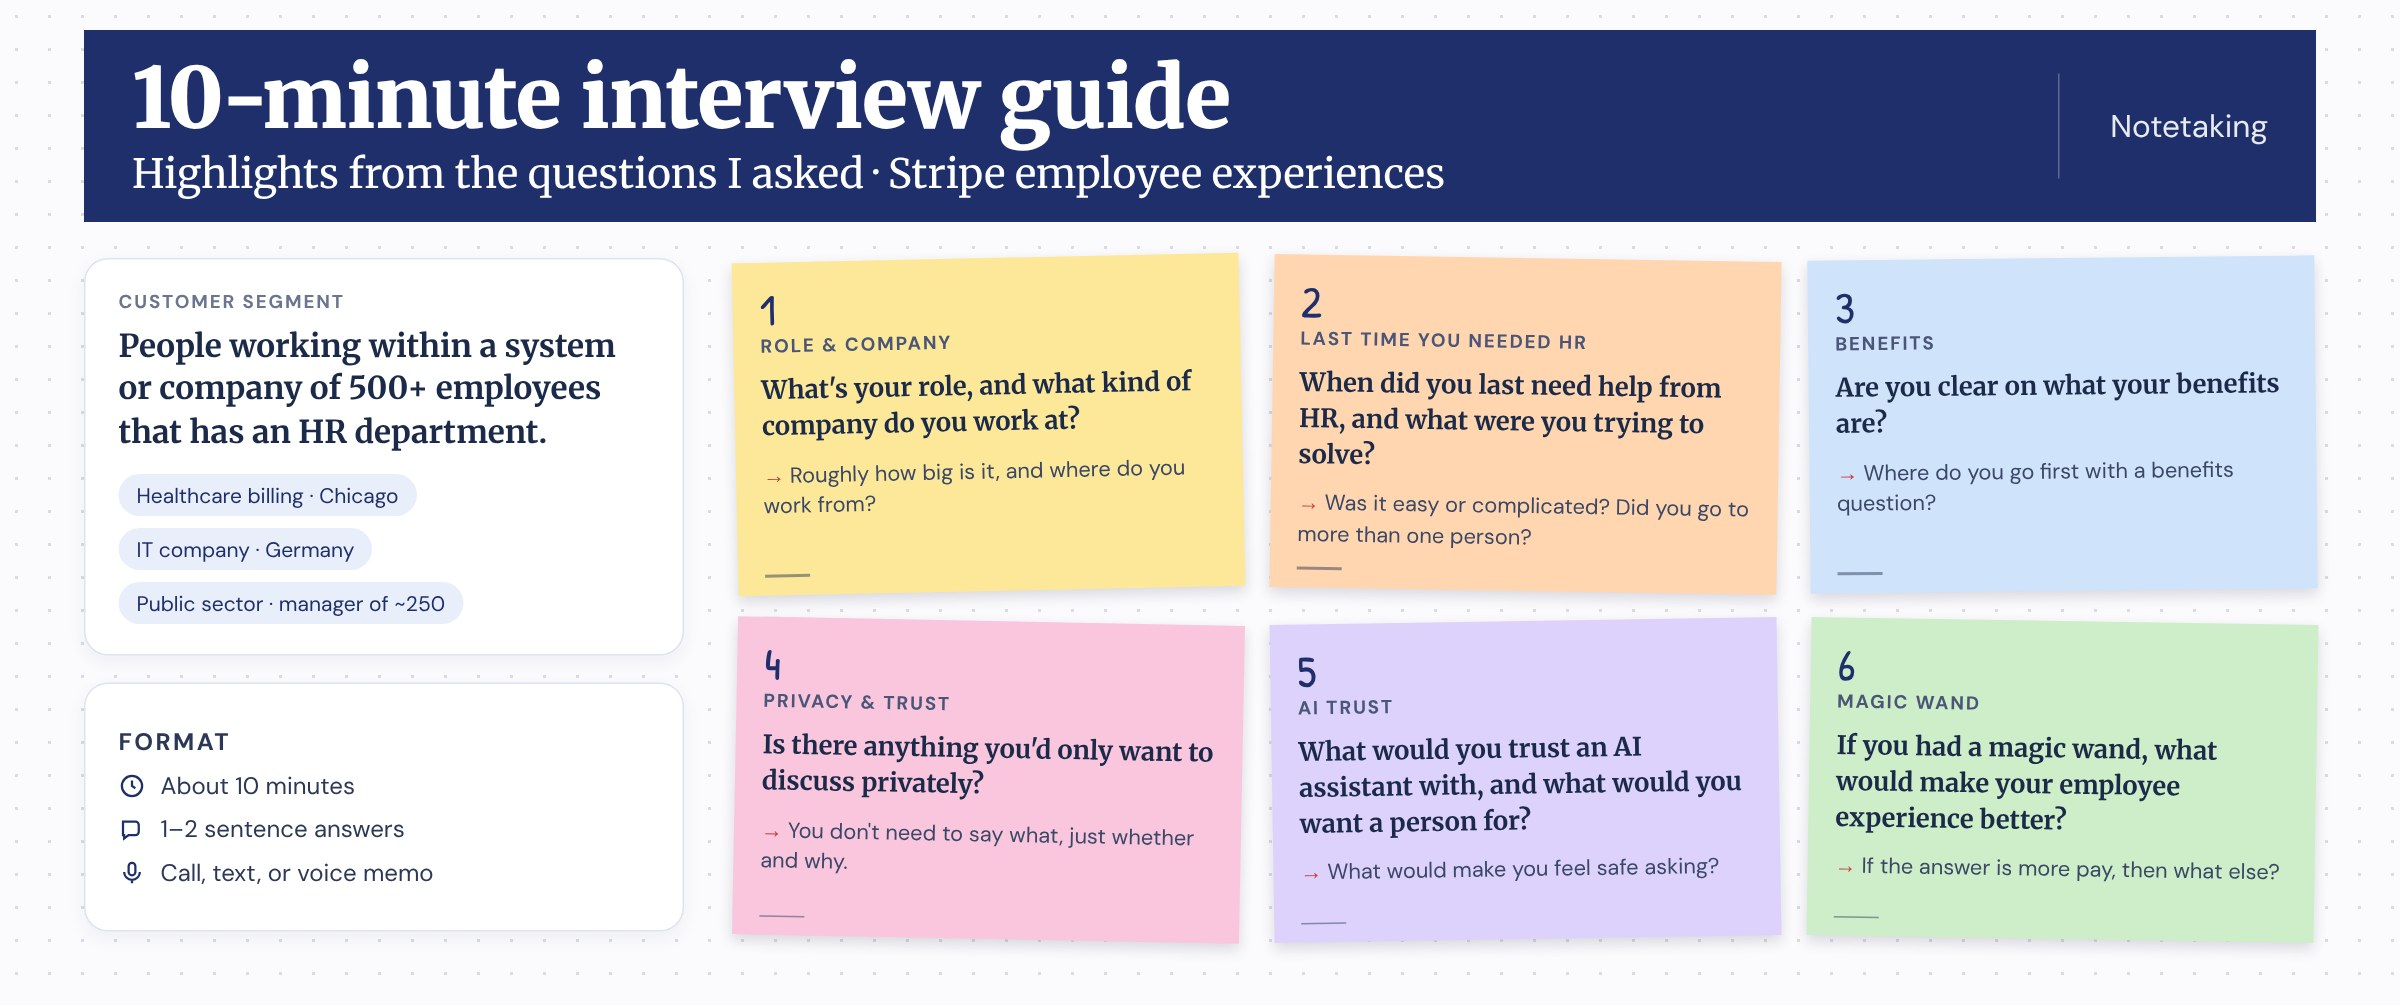
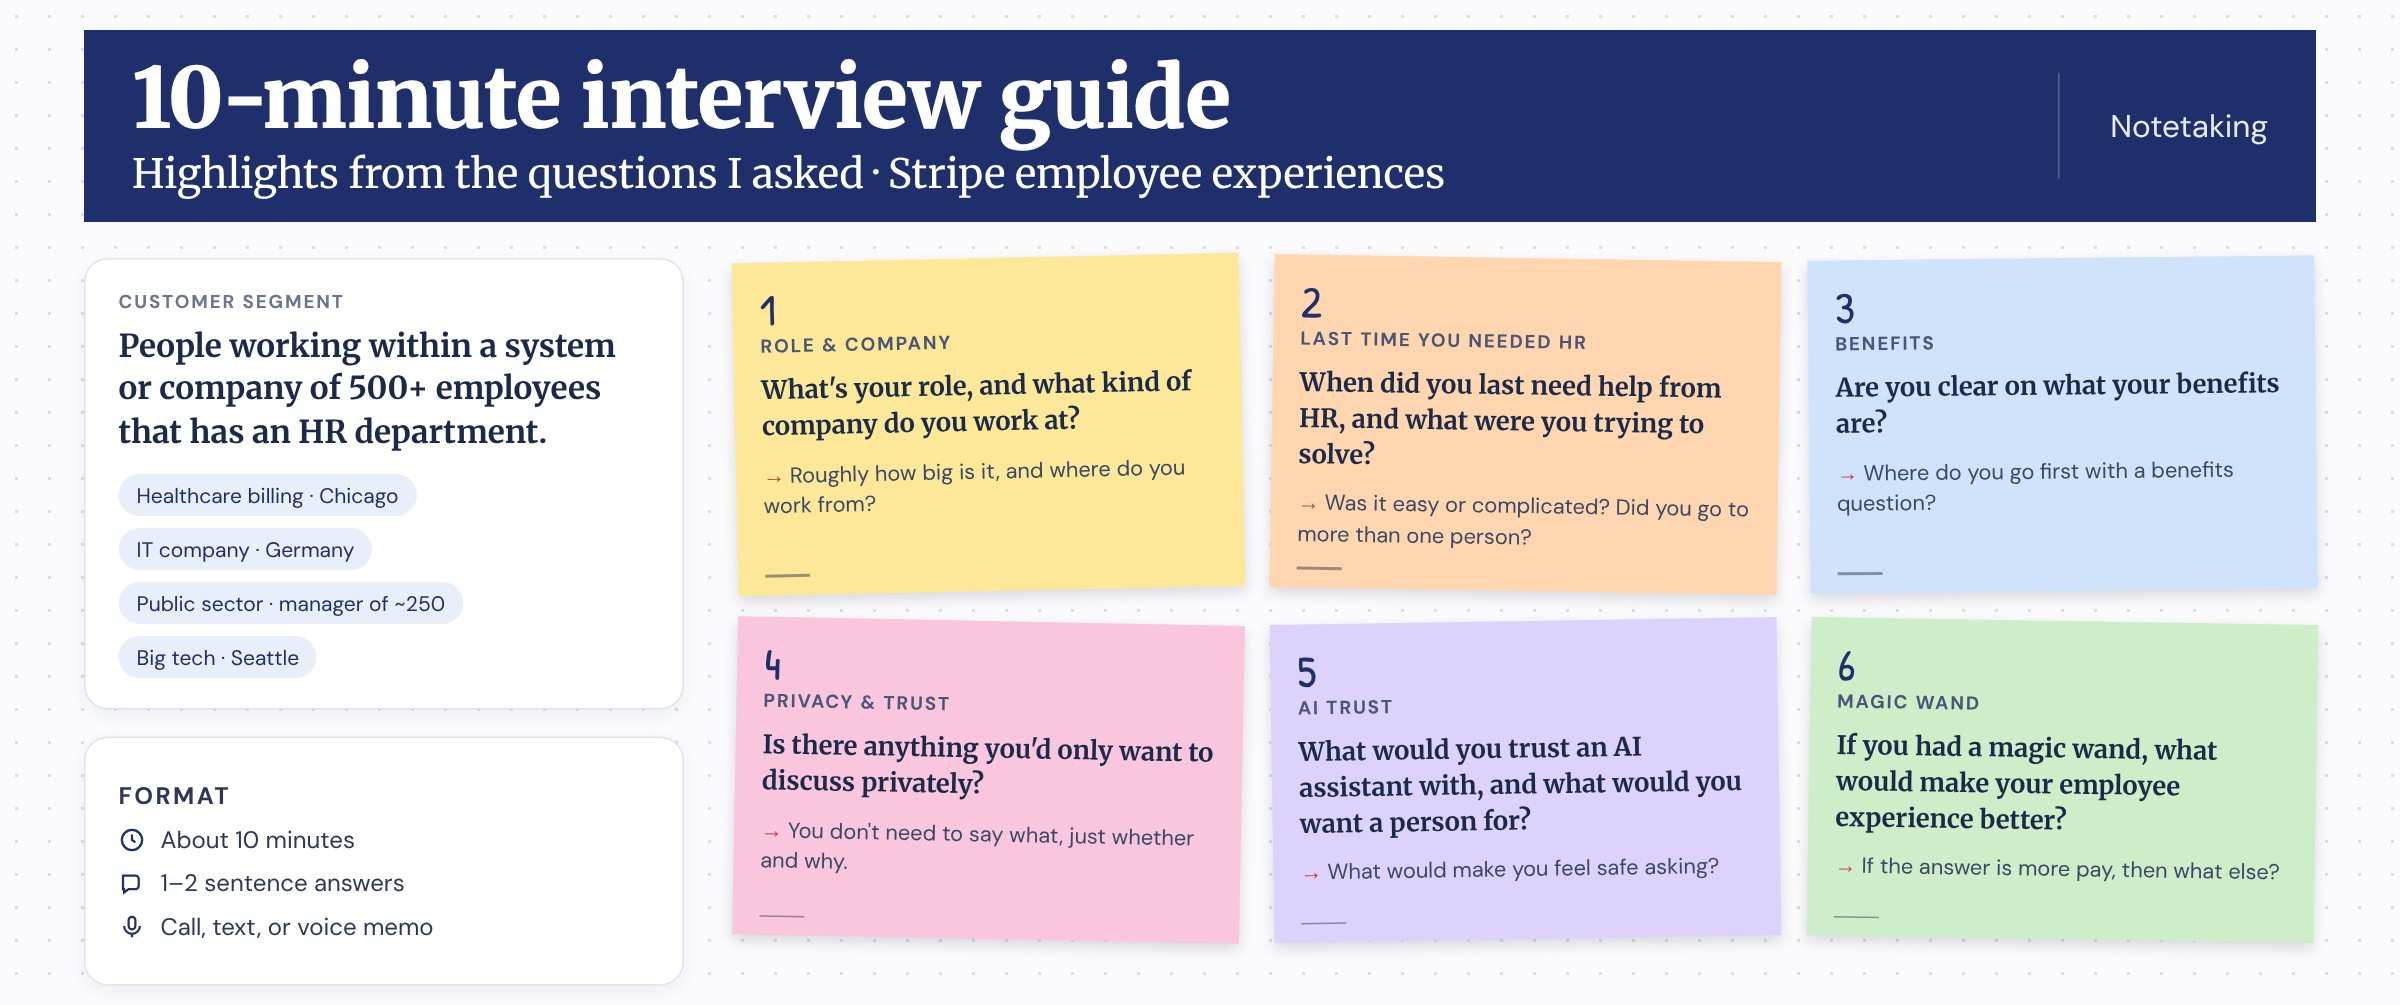
Stripe: add 4th real interview (software engineer, global tech) to text and research images
Claude-Session: https://claude.ai/code/session_01XF7k1YqiAUVVFY4gitzFxY

Changed region(s): [[0.0312, 0.7711, 0.1875, 0.9254], [0.0625, 0.6478, 0.125, 0.6786], [0.0312, 0.7095, 0.0938, 0.7403]]

diff --git a/stripe.html b/stripe.html
@@ -79,13 +79,13 @@ a{color:#FDF6DC}a:hover{color:#F4AE55}
 <p style="margin: 0; font-size: 20px; line-height: 1.75; color: #1F3F5C">In building the previous AI tool, the constraint I learned to keep in mind with AI is trust and quality over speed. Security, legal, and Employee Relations rightly move carefully with employee data, so anything I proposed had to earn trust first and scale second.</p>
 
 <h2 id="s03" data-toc="Research signals" style="margin: 56px 0 0; display: flex; gap: 20px; align-items: baseline; font-family: 'DM Sans', sans-serif; font-weight: 500; font-size: 34px; line-height: 1.2; color: #2E5A81"><span style="font-family: 'Instrument Serif', serif; font-weight: 400; font-size: 44px; color: #C8403F">03</span>Research signals</h2>
-<p style="margin: 0; font-size: 20px; line-height: 1.75; color: #1F3F5C">I combined public research, 3 real interviews, and 11 simulated personas. For the interviews, I talked with people working within a system or company of 500+ employees that has an HR department, using a short guide I could run in about 10 minutes.</p>
-<figure id="s-interviews" data-toc-sub="Interview questions" style="scroll-margin-top: 32px; margin: 12px 0; display: flex; flex-direction: column; gap: 10px"><img src="images/stripe/interview-guide.jpg" alt="10-minute interview guide. Customer segment: people working within a system or company of 500+ employees that has an HR department, including a healthcare billing company in Chicago, an IT company in Germany, and a public-sector manager of about 250 people. Six highlight questions on sticky notes: role and company, the last time you needed HR, benefits, privacy and trust, AI trust, and a magic wand question." width="2400" height="1005" style="width: 100%; height: auto; display: block; border-radius: 12px; border: 1px solid #E6DDCB"></figure>
-<p style="margin: 0; font-size: 20px; line-height: 1.75; color: #1F3F5C">The real interviews made the problems concrete. One person spent a week going from her VP to HR to another team to get her bonus explained. Another wanted her medical details seen only by whoever needs them. On anything sensitive, one was blunt:</p>
+<p style="margin: 0; font-size: 20px; line-height: 1.75; color: #1F3F5C">I combined public research, 4 real interviews, and 11 simulated personas. For the interviews, I talked with people working within a system or company of 500+ employees that has an HR department, using a short guide I could run in about 10 minutes.</p>
+<figure id="s-interviews" data-toc-sub="Interview questions" style="scroll-margin-top: 32px; margin: 12px 0; display: flex; flex-direction: column; gap: 10px"><img src="images/stripe/interview-guide.jpg?v=2" alt="10-minute interview guide. Customer segment: people working within a system or company of 500+ employees that has an HR department, including a healthcare billing company in Chicago, an IT company in Germany, and a public-sector manager of about 250 people. Six highlight questions on sticky notes: role and company, the last time you needed HR, benefits, privacy and trust, AI trust, and a magic wand question." width="2400" height="1005" style="width: 100%; height: auto; display: block; border-radius: 12px; border: 1px solid #E6DDCB"></figure>
+<p style="margin: 0; font-size: 20px; line-height: 1.75; color: #1F3F5C">The real interviews made the problems concrete. One person spent a week going from her VP to HR to another team to get her bonus explained. Another wanted her medical details seen only by whoever needs them. A software engineer at a global tech company emailed an HR alias about taxes after moving back from Canada, got redirected, and waited days for a full answer. He also found out late about legal and discount benefits he already had. On anything sensitive, one was blunt:</p>
 <blockquote style="margin: 8px 0; padding: 4px 0 4px 28px; border-left: 3px solid #C8403F; font-family: 'Instrument Serif', serif; font-size: 30px; line-height: 1.25; color: #2E5A81">“Even if you say it’s private, it’s not private.”</blockquote>
-<p style="margin: 0; font-size: 20px; line-height: 1.75; color: #1F3F5C">All three drew the same line for AI: facts and simple lookups are fine, but a person should handle anything specific to their situation.</p>
-<p style="margin: 0; font-size: 20px; line-height: 1.75; color: #1F3F5C">I sorted every signal on sticky notes until patterns appeared. Three kinds of people emerged, each stuck on a different problem: finding an answer they trust, reaching the right person, or feeling safe enough to ask. With only three real interviews, I treat the simulated findings as directional.</p>
-<figure id="s-archetypes" data-toc-sub="Archetypes" style="scroll-margin-top: 32px; margin: 12px 0; display: flex; flex-direction: column; gap: 10px"><img src="images/stripe/archetypes.jpg" alt="Who needs help, and why: three employee archetypes by problem type, each with a small illustrated character and sticky notes from real interviews, simulated personas, and research. The Searcher can't find an answer they trust. The Direct Asker gets bounced between people. The Holder-Back doesn't feel safe asking. Below, the prioritized problem: employees can't easily get trustworthy benefits and leave answers, or privately reach the right person." width="2400" height="1155" style="width: 100%; height: auto; display: block; border-radius: 12px; border: 1px solid #E6DDCB"></figure>
+<p style="margin: 0; font-size: 20px; line-height: 1.75; color: #1F3F5C">All four drew the same line for AI: facts and simple lookups are fine, but a person should handle anything specific to their situation.</p>
+<p style="margin: 0; font-size: 20px; line-height: 1.75; color: #1F3F5C">I sorted every signal on sticky notes until patterns appeared. Three kinds of people emerged, each stuck on a different problem: finding an answer they trust, reaching the right person, or feeling safe enough to ask. With only four real interviews, I treat the simulated findings as directional.</p>
+<figure id="s-archetypes" data-toc-sub="Archetypes" style="scroll-margin-top: 32px; margin: 12px 0; display: flex; flex-direction: column; gap: 10px"><img src="images/stripe/archetypes.jpg?v=2" alt="Who needs help, and why: three employee archetypes by problem type, each with a small illustrated character and sticky notes from real interviews, simulated personas, and research. The Searcher can't find an answer they trust. The Direct Asker gets bounced between people. The Holder-Back doesn't feel safe asking. Below, the prioritized problem: employees can't easily get trustworthy benefits and leave answers, or privately reach the right person." width="2400" height="1155" style="width: 100%; height: auto; display: block; border-radius: 12px; border: 1px solid #E6DDCB"></figure>
 <p style="margin: 0; font-size: 20px; line-height: 1.75; color: #1F3F5C">That led me to one problem: <strong>Employees can't easily get trustworthy answers to benefits and leave questions, or privately reach the right person when the topic is sensitive.</strong></p>
 
 <h2 id="s04" data-toc="Solutions framework" style="margin: 56px 0 0; display: flex; gap: 20px; align-items: baseline; font-family: 'DM Sans', sans-serif; font-weight: 500; font-size: 34px; line-height: 1.2; color: #2E5A81"><span style="font-family: 'Instrument Serif', serif; font-weight: 400; font-size: 44px; color: #C8403F">04</span>Creating a framework to narrow solutions</h2>
